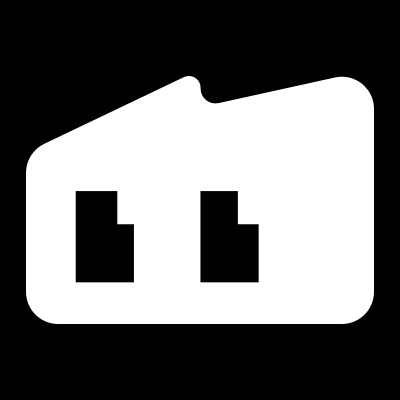
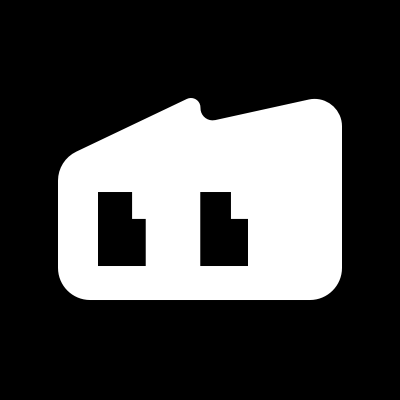
feat: update Cephalon provider configuration and assets
* add Cephalon logo image
* enable Cephalon provider in the store
* remove previous disabled configuration for Cephalon

Changed region(s): [[0.06, 0.18, 0.96, 0.81], [0.48, 0.48, 0.66, 0.72]]

diff --git a/src/renderer/src/store/llm.ts b/src/renderer/src/store/llm.ts
@@ -27,6 +27,16 @@ export interface LlmState {
 
 export const INITIAL_PROVIDERS: Provider[] = [
   {
+    id: 'cephalon',
+    name: 'Cephalon',
+    type: 'openai',
+    apiKey: '',
+    apiHost: 'https://cephalon.cloud/user-center/v1/model',
+    models: SYSTEM_MODELS.cephalon,
+    isSystem: true,
+    enabled: true
+  },
+  {
     id: 'silicon',
     name: 'Silicon',
     type: 'openai',
@@ -485,16 +495,6 @@ export const INITIAL_PROVIDERS: Provider[] = [
     apiKey: '',
     apiHost: 'https://api.voyageai.com',
     models: SYSTEM_MODELS.voyageai,
-    isSystem: true,
-    enabled: false
-  },
-  {
-    id: 'cephalon',
-    name: 'Cephalon',
-    type: 'openai',
-    apiKey: '',
-    apiHost: 'https://cephalon.cloud/user-center/v1/model',
-    models: SYSTEM_MODELS.cephalon,
     isSystem: true,
     enabled: false
   }
